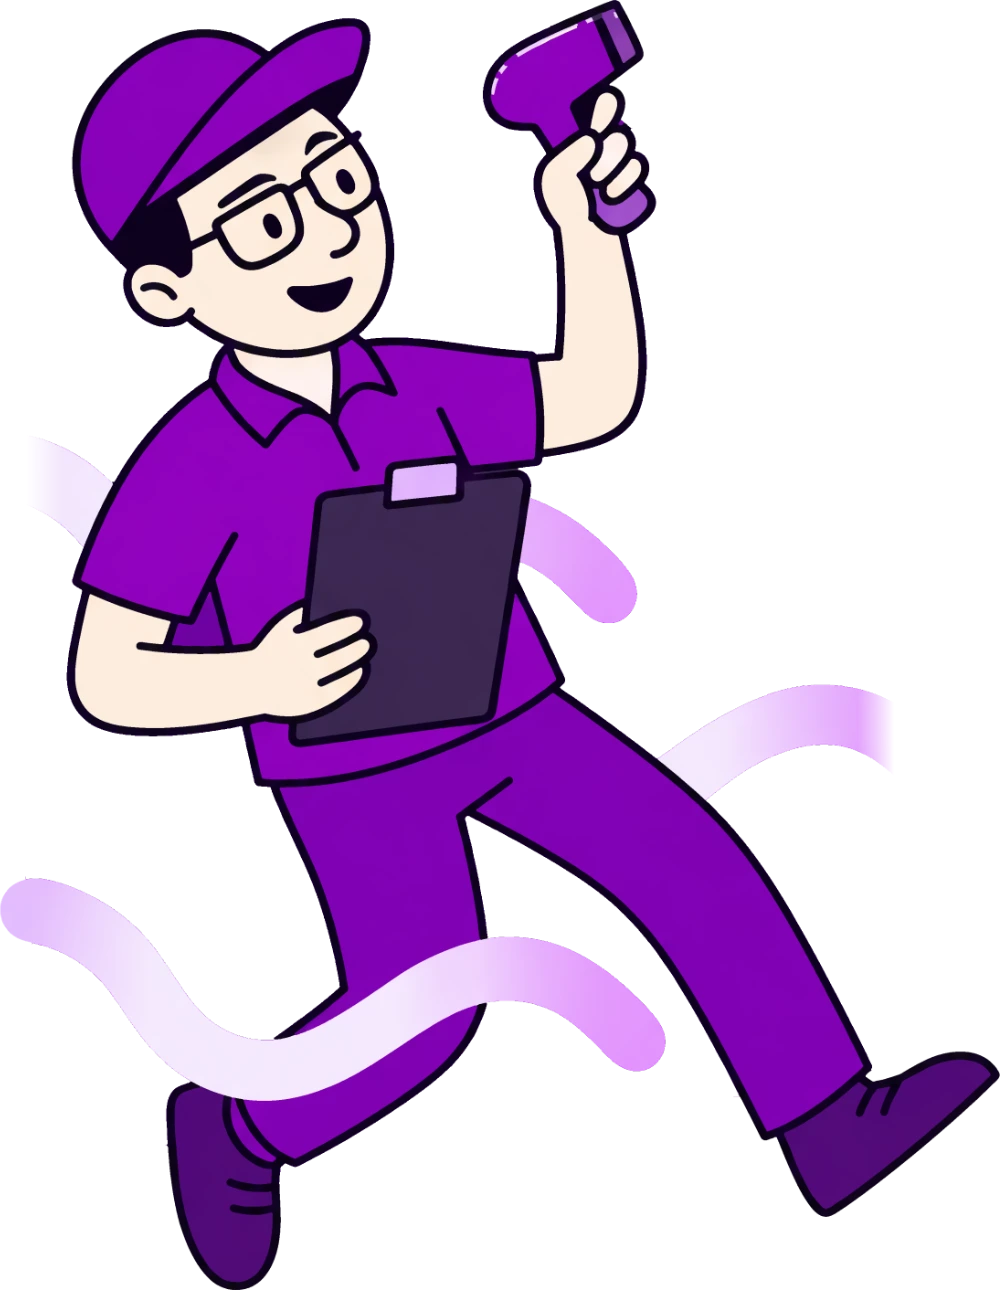
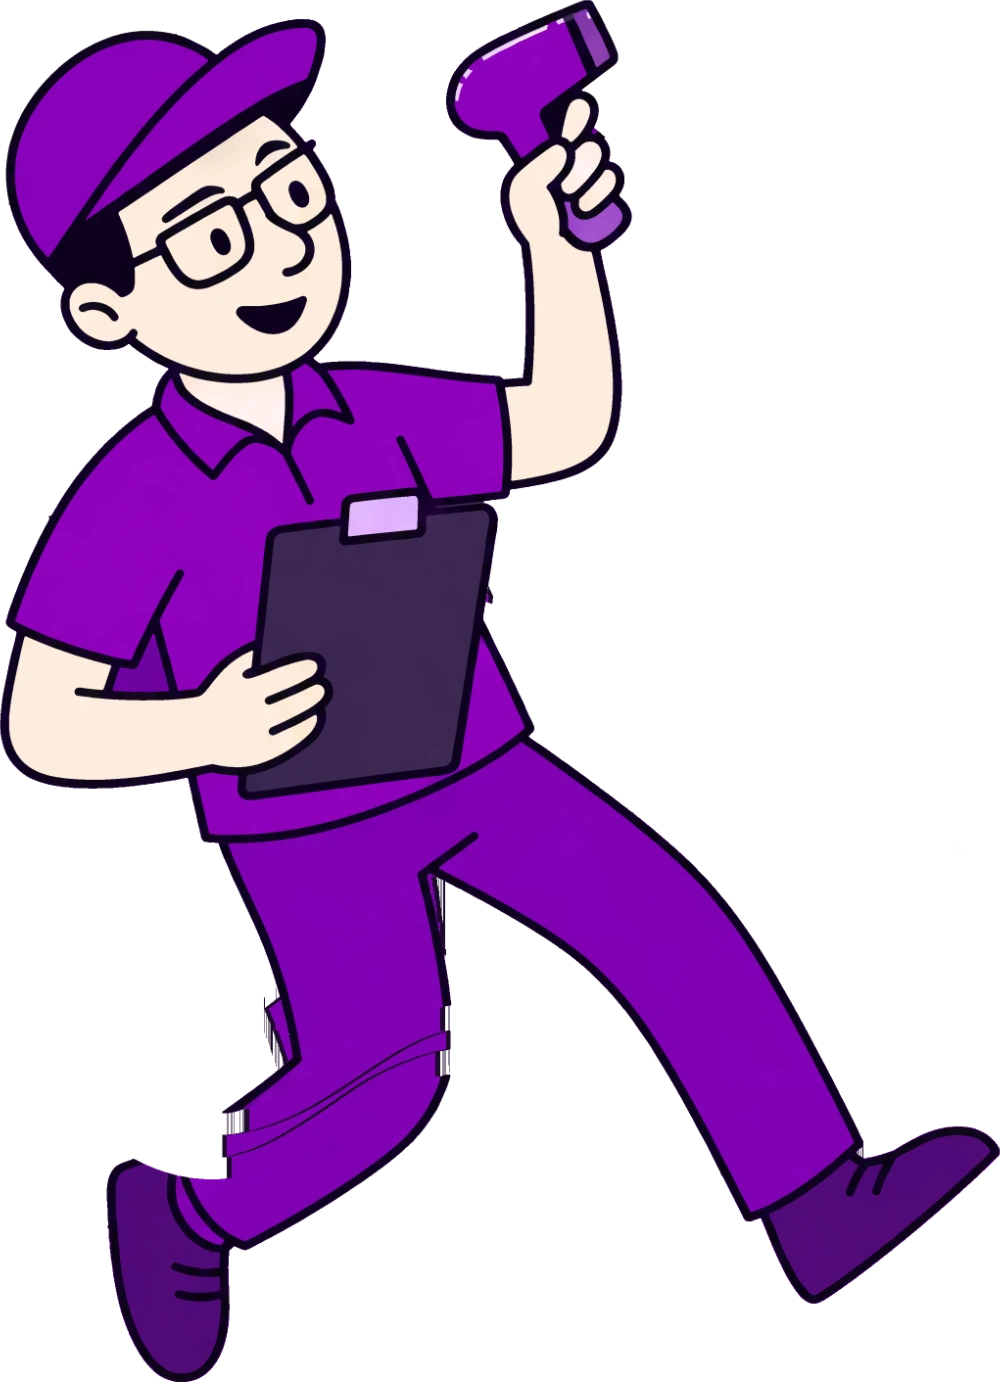
Portada: escena animada en el hero (banda de cajas que nace del titular, lector con destello, parpadeo, ondas completas)

diff --git a/src/landing/escena.jsx b/src/landing/escena.jsx
@@ -1,0 +1,199 @@
+import styled, { keyframes } from "styled-components";
+import personaje from "../assets/personaje-stockly.webp";
+import { MORADO_CLARO, VERDE } from "./tokens";
+
+// Escena del hero: el personaje de la marca recibe cajas por una banda que nace al final del titular,
+// las registra (destello del lector y ✓) y las cajas entran a la ventana de la app.
+// Todo es CSS: funciona prerenderizado y se detiene con "prefers-reduced-motion".
+
+const ANCHO = 620;
+const ALTO = 640;
+// Banda transportadora: arranca junto a "orden.", pasa detrás del personaje y baja hacia la app.
+const BANDA = "M 92 268 C 170 240, 210 300, 290 270 S 430 240, 480 270 C 530 295, 566 300, 584 340 C 612 400, 600 470, 594 540 S 590 566, 590 574";
+// Onda de piso, detrás de las piernas.
+const ONDA = "M -20 470 C 80 430, 140 510, 230 470 S 380 430, 460 470 S 580 510, 640 470";
+const CICLO = 9; // s por caja (tres cajas en la banda, una cada 3 s)
+
+export function Escena() {
+  return (
+    <Marco className="escena-marco" aria-hidden="true">
+      <Lienzo>
+        <svg className="ondas" viewBox={`0 0 ${ANCHO} ${ALTO}`} width={ANCHO} height={ALTO}>
+          <defs>
+            <linearGradient id="lila" x1="0" x2="1" y1="0" y2="0">
+              <stop offset="0" stopColor="#e9c9ff" />
+              <stop offset="1" stopColor="#f5ebff" />
+            </linearGradient>
+          </defs>
+          <path className="onda" d={ONDA} />
+          <path className="onda" d={BANDA} />
+          <path className="pulso" d={ONDA} pathLength="100" />
+          <path className="pulso banda" d={BANDA} pathLength="100" />
+        </svg>
+
+        {[0, 1, 2].map((i) => (
+          <Caja key={i} style={{ animationDelay: `${-i * 3}s` }} $base={30 + i * 30}>
+            {/* el retraso se repite en el ✓ porque el svg intermedio no lo hereda */}
+            <svg viewBox="0 0 64 74" width="64" height="74">
+              <path className="cara" d="M14 22 L46 15 L62 25 L30 33 Z" fill="#f3e7fd" />
+              <path className="cara" d="M30 33 L62 25 L60 61 L30 71 Z" fill="#dcb5fb" />
+              <path className="cara" d="M14 22 L30 33 L30 71 L12 60 Z" fill="#f8f0fe" />
+              <path d="M24 26 L36 23.5 L37 39 L25 42 Z" fill="#7a02ac" />
+              <path d="M17 48 l3.5 -4.5 l3.5 4.5 M20.5 44 v10 M24 46 l3.5 -4.5 l3.5 4.5 M27.5 42 v10" stroke="#7a02ac" strokeWidth="1.8" fill="none" strokeLinecap="round" strokeLinejoin="round" />
+              <g className="ok" style={{ animationDelay: `${-i * 3}s` }}>
+                <circle cx="51" cy="13" r="10" fill={VERDE} stroke="#1d0b2b" strokeWidth="2" />
+                <path d="M46 13 l3.5 3.5 l6.5 -7.5" stroke="#063d1e" strokeWidth="2.6" fill="none" strokeLinecap="round" strokeLinejoin="round" />
+              </g>
+            </svg>
+          </Caja>
+        ))}
+
+        <Personaje src={personaje} alt="" width="1000" height="1382" fetchPriority="high" />
+        <Parpado className="parpado" style={{ left: 393, top: 80 }} />
+        <Parpado className="parpado" style={{ left: 428, top: 102 }} />
+        <Anillo style={{ left: 261, top: 8 }} />
+        <Anillo className="tarde" style={{ left: 261, top: 8 }} />
+      </Lienzo>
+    </Marco>
+  );
+}
+
+const pulso = keyframes`
+  from { stroke-dashoffset: 112; }
+  to { stroke-dashoffset: -12; }
+`;
+const recorrer = keyframes`
+  0% { offset-distance: 0%; opacity: 0; transform: scale(0.85); }
+  7% { opacity: 1; transform: scale(1); }
+  88% { opacity: 1; transform: scale(1); }
+  100% { offset-distance: 100%; opacity: 0; transform: scale(0.6); }
+`;
+const chequear = keyframes`
+  0%, 60% { opacity: 0; transform: scale(0.3); }
+  64% { opacity: 1; transform: scale(1.2); }
+  68%, 100% { opacity: 1; transform: scale(1); }
+`;
+const anillo = keyframes`
+  0% { transform: scale(0.3); opacity: 0.9; }
+  30% { transform: scale(2.4); opacity: 0; }
+  100% { transform: scale(2.4); opacity: 0; }
+`;
+const retroceso = keyframes`
+  0%, 100% { transform: scaleX(-1) rotate(0deg); }
+  3% { transform: scaleX(-1) rotate(2.2deg); }
+  8% { transform: scaleX(-1) rotate(-0.6deg); }
+  12% { transform: scaleX(-1) rotate(0deg); }
+`;
+const parpadeo = keyframes`
+  0%, 93% { transform: scaleY(0); }
+  95.5%, 97% { transform: scaleY(1); }
+  100% { transform: scaleY(0); }
+`;
+
+const Marco = styled.div`
+  --k: 1;
+  position: relative;
+  width: calc(${ANCHO}px * var(--k));
+  height: calc(${ALTO}px * var(--k));
+`;
+
+const Lienzo = styled.div`
+  position: absolute;
+  inset: 0;
+  width: ${ANCHO}px;
+  height: ${ALTO}px;
+  transform: scale(var(--k));
+  transform-origin: 0 0;
+  .ondas {
+    position: absolute;
+    inset: 0;
+    overflow: visible;
+  }
+  .onda {
+    fill: none;
+    stroke: url(#lila);
+    stroke-width: 22;
+    stroke-linecap: round;
+  }
+  .pulso {
+    fill: none;
+    stroke: #fff;
+    stroke-width: 10;
+    stroke-linecap: round;
+    stroke-dasharray: 12 100;
+    opacity: 0.85;
+    animation: ${pulso} 5s linear infinite;
+  }
+  .pulso.banda {
+    animation-duration: 3s;
+  }
+`;
+
+const Caja = styled.div`
+  position: absolute;
+  left: 0;
+  top: 0;
+  width: 64px;
+  height: 74px;
+  z-index: 1;
+  offset-path: path("${BANDA}");
+  offset-rotate: 0deg;
+  offset-anchor: 50% 65%;
+  offset-distance: ${(p) => p.$base}%;
+  animation: ${recorrer} ${CICLO}s linear infinite;
+  svg {
+    overflow: visible;
+  }
+  .cara {
+    stroke: #1d0b2b;
+    stroke-width: 3;
+    stroke-linejoin: round;
+  }
+  .ok {
+    transform-origin: 51px 13px;
+    animation: ${chequear} ${CICLO}s linear infinite;
+  }
+`;
+
+const Personaje = styled.img`
+  position: absolute;
+  left: 100px;
+  top: 10px;
+  height: 600px;
+  width: auto;
+  z-index: 2;
+  transform: scaleX(-1);
+  transform-origin: 50% 92%;
+  animation: ${retroceso} 3s ease-out infinite;
+  animation-delay: -0.6s;
+`;
+
+// Párpados sobre los ojos (color de piel) que bajan un instante.
+const Parpado = styled.span`
+  position: absolute;
+  z-index: 3;
+  width: 22px;
+  height: 24px;
+  border-radius: 50%;
+  background: #fbe6d2;
+  transform: scaleY(0);
+  transform-origin: 50% 0;
+  animation: ${parpadeo} 4.6s linear infinite;
+`;
+
+// Destello del lector de códigos.
+const Anillo = styled.span`
+  position: absolute;
+  z-index: 3;
+  width: 26px;
+  height: 26px;
+  border-radius: 50%;
+  border: 3px solid ${MORADO_CLARO};
+  opacity: 0;
+  animation: ${anillo} 3s ease-out infinite;
+  animation-delay: -0.6s;
+  &.tarde {
+    animation-delay: -0.35s;
+    border-color: #fff;
+  }
+`;

diff --git a/src/landing/Landing.jsx b/src/landing/Landing.jsx
@@ -1,6 +1,6 @@
 import styled from "styled-components";
 import logo from "../assets/logo.png";
-import personaje from "../assets/personaje-stockly.webp";
+import { Escena } from "./escena";
 import { FAQ, FUNCIONES, HERO, PASOS, PLANES, SITIO, cop } from "./contenido";
 import { Cinta, PanelHoy, PanelPlan, PanelStock, PanelTicket, PanelVentas, VentanaApp, VisualBodegas, VisualCaja, VisualNovandra, VisualTelefono } from "./widgets";
 import { GRIS, LINEA, MORADO, MORADO_CLARO, PAPEL, SUAVE, TINTA, sinMovimiento } from "./tokens";
@@ -54,7 +54,7 @@ export function Landing() {
               ))}
             </ul>
           </div>
-          <img className="personaje" src={personaje} alt="Persona del equipo de Stockly revisando el inventario con un lector de códigos" width="1000" height="1290" fetchPriority="high" />
+          <Escena />
           <VentanaApp className="ventana" aria-label="Así se ve el panel de Stockly">
             <div className="barra">
               <i />
@@ -422,14 +422,17 @@ const Hero = styled.section`
       font-weight: 700;
     }
   }
-  /* El personaje mira al titular (espejado) y apunta el lector a las palabras; sus pies pisan la ventana de la app */
-  .personaje {
+  /* La escena animada: nace al final del titular y termina sobre la ventana de la app */
+  .escena-marco {
+    --k: 0.56;
     position: relative;
     z-index: 2;
-    height: 300px;
-    width: auto;
-    margin: 10px 0 -14px;
-    transform: scaleX(-1);
+    margin: 8px auto -36px;
+  }
+  @media (min-width: 480px) {
+    .escena-marco {
+      --k: 0.7;
+    }
   }
   .ventana {
     position: relative;
@@ -450,11 +453,11 @@ const Hero = styled.section`
     .notas {
       justify-content: flex-start;
     }
-    .personaje {
+    .escena-marco {
+      --k: 1;
       position: absolute;
       top: -6px;
-      right: 56px;
-      height: 590px;
+      right: 0;
       margin: 0;
     }
     .ventana {
